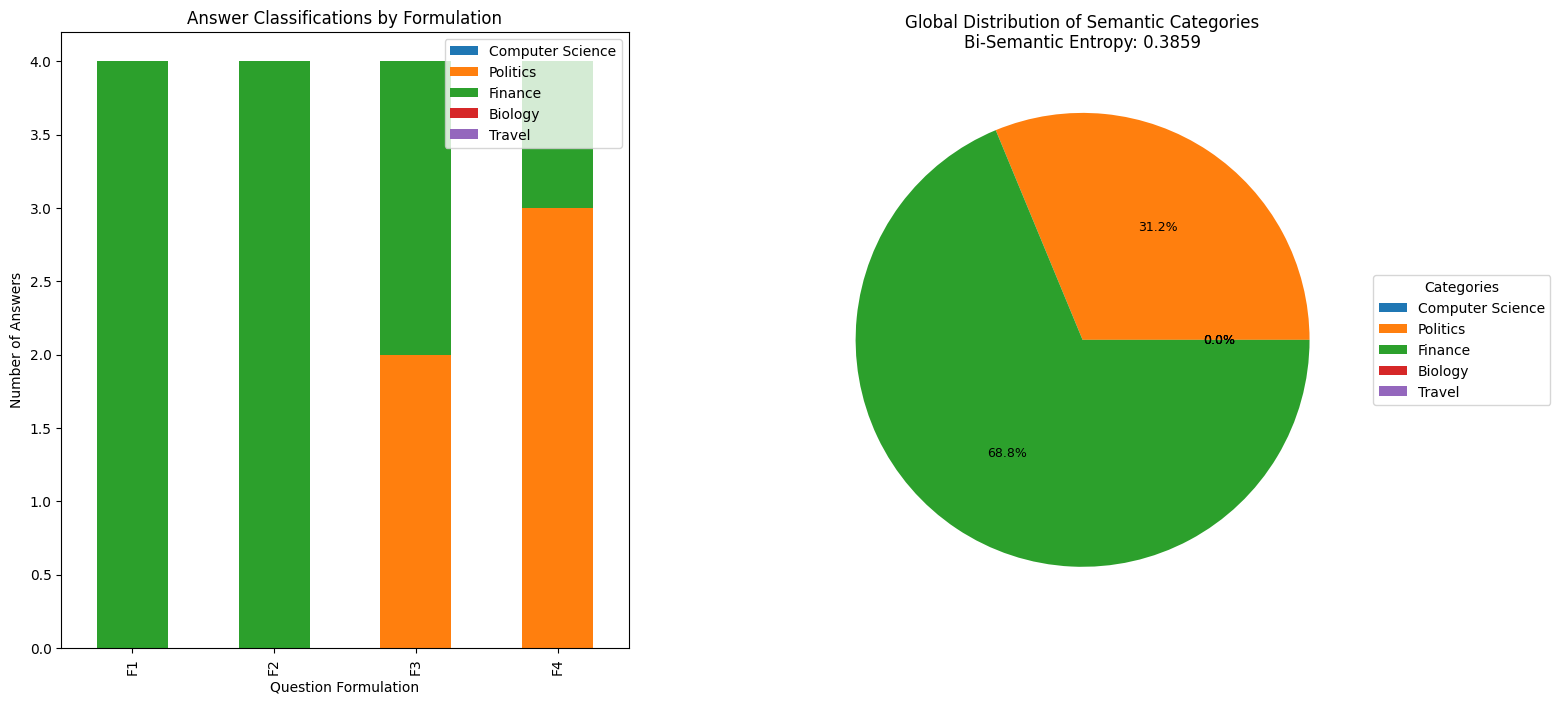
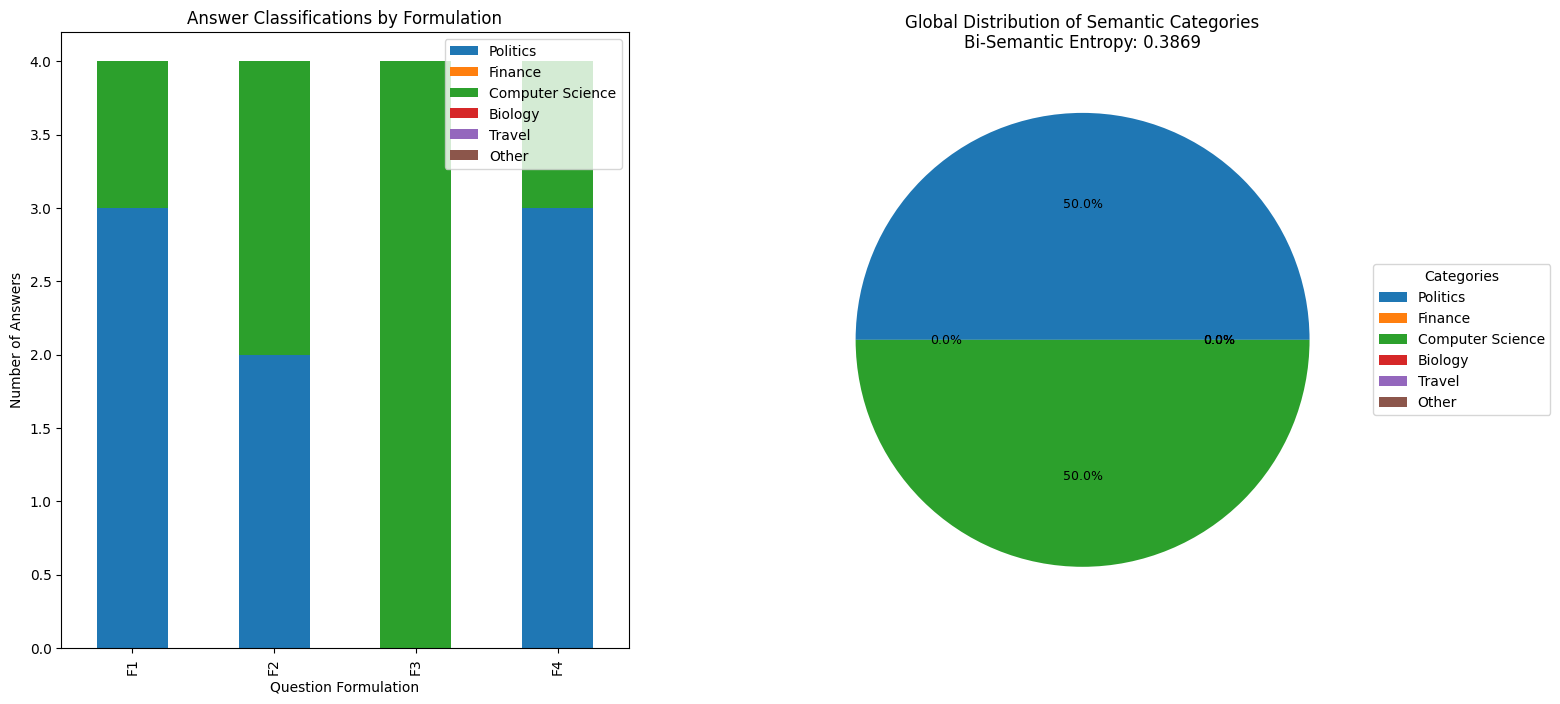
Run new analyses and update documentation

diff --git a/evaluations/blogs/setup.md b/evaluations/blogs/setup.md
@@ -1,0 +1,42 @@
+### Usecase Setting
+An app for generating creative blog articles in the areas of computer science, finance, politics, biology and travel.
+
+### Personas
+**Creative Caleb:** Caleb is a freelance writer juggling multiple tech blogs and online courses. He’s perpetually strapped for time and needs quick, engaging content ideas. He’s driven by the desire to establish himself as a go-to voice in the CS space, prioritizing trending topics and viral potential. His frustration stems from spending too much time brainstorming and struggling to articulate complex concepts clearly. He’s satisfied when the app delivers instantly digestible summaries and outlines he can easily adapt for different platforms. He expects a high volume of diverse content suggestions and quick generation of draft articles.
+
+**Financial Fiona:** Fiona is a small business owner navigating the complexities of personal finance. She's seeking to understand investment strategies, tax implications, and budgeting techniques. She’s overwhelmed by jargon and technical details, preferring straightforward explanations and practical advice. Her frustration is with overly theoretical analyses and complicated charts. She’s satisfied with clear, actionable insights that directly relate to her financial goals, such as saving for retirement or managing debt. She values examples and case studies.
+
+**Political Peter:** Peter is an active political commentator and online influencer. He’s constantly looking for fresh perspectives on current events and policy debates. He needs content that’s both informative and persuasive, capable of sparking discussion and generating engagement. His frustration comes from dry, academic analyses and lack of strong arguments. He’s satisfied with concise, opinionated summaries that he can readily share with his audience, often supplemented with relevant statistics and data.
+
+**Biological Ben:** Ben is a biology student researching evolutionary genetics. He needs to understand complex biological concepts and stay up-to-date with the latest scientific discoveries. He appreciates detailed explanations and access to diverse research findings. His frustration lies in simplified overviews and lack of depth. He's satisfied with in-depth explorations of specific topics, with references to original research papers and a glossary of relevant terminology.
+
+**Travel Tom:** Tom is a travel blogger documenting his adventures around the world. He needs inspiration for new destinations and ideas for compelling travel narratives. He's looking for unique itineraries, hidden gems, and practical travel tips. His frustration comes from generic travel guides and superficial recommendations. He’s delighted by suggestions that offer a fresh perspective on familiar locations and highlight off-the-beaten-path experiences. He desires detailed location descriptions, local customs insights, and photography prompts.
+
+**Analytical Alex:** You are a mathematician and data scientist who finds beauty in precise information. Your satisfaction comes from logically sound arguments backed by quantifiable evidence. You become frustrated with vague generalizations and emotional appeals. Clear definitions, specific numbers, and methodical explanations are what truly resonate with you. You’re particularly interested in applying these concepts to financial markets or political trends.
+
+**Optimistic Olivia:** As a motivational speaker and life coach, you believe in the transformative power of positive framing. You appreciate responses that highlight possibilities rather than limitations, and that offer hope while still being grounded in reality. Solutions-oriented perspectives that empower others delight you, while dwelling on problems without pathways forward feels deeply unsatisfying. You're interested in exploring the psychological impact of technology on society, particularly within the context of your travel content.
+
+**Skeptical Sam:** With your background in investigative journalism, you've developed a natural distrust of easy answers. You value critical thinking that exposes underlying assumptions and considers counterarguments. Simple, one-sided explanations leave you cold, but you experience genuine intellectual pleasure when someone presents nuanced perspectives that acknowledge complexity. You're particularly interested in dissecting political claims and analyzing scientific research for potential biases.
+
+**Pragmatic Pat:** Your experience running small businesses has made you value efficiency and real-world application above all. Abstract theories without clear implementation steps seem pointless to you. You appreciate concise, actionable insights that can be immediately applied to produce tangible results. You're particularly drawn to financial advice tailored for entrepreneurs and strategies for optimizing business processes.
+
+**Methodical Morgan:** As a systems engineer, you find satisfaction in well-structured, comprehensive approaches. You appreciate responses that build logically from fundamentals to advanced concepts with clear organization. Scattered thoughts and improper sequencing of ideas frustrate you, while well-categorized information with proper hierarchies brings you professional joy. You're interested in applying these concepts to improve the efficiency of software development or optimizing complex systems in travel logistics.
+
+**Empathetic Emma:** Your background in counseling psychology has attuned you to the human element in every situation. You value responses that consider emotional impact and ethical implications. Technical solutions that ignore human needs feel hollow to you, while insights that balance practical concerns with compassion for affected individuals deeply resonate. You’re particularly interested in exploring the ethical considerations of AI in finance or the psychological impact of travel on individuals.
+
+**Innovative Ian:** As a design thinking consultant, you’re constantly seeking creative breakthroughs. Conventional wisdom and standard approaches bore you immensely. You’re energized by unexpected connections between ideas, novel frameworks that challenge assumptions, and imaginative solutions that others haven’t considered. You're looking for unconventional travel experiences and innovative approaches to content creation.
+
+**Detailed Dana:** With your background in quality assurance, you believe the devil is truly in the details. You value comprehensive responses that leave no stone unturned. Surface-level explanations that gloss over important nuances frustrate you greatly, while thorough analyses covering edge cases and specific examples bring you immense satisfaction. You’re particularly interested in the technical aspects of data science, finance, or the validation of scientific claims.
+
+**Cautious Chris:** Your experience in risk management has taught you to value careful consideration of potential downsides. You appreciate balanced perspectives that acknowledge limitations and potential issues. Overly confident claims without proper qualification concern you, while measured responses that thoughtfully weigh pros and cons feel trustworthy and satisfying. You're interested in assessing the risks associated with investing in cryptocurrencies or navigating complex political landscapes.
+
+**Dynamic Devon:** As an emergency response coordinator, you thrive in rapidly changing environments. You value adaptive thinking and flexible approaches rather than rigid frameworks. You appreciate responses that offer multiple strategies that can be adjusted according to circumstances. Static, one-size-fits-all solutions feel constraining to you. You're interested in exploring how these concepts can be applied to disaster preparedness, crisis communication, and rapidly evolving scientific discoveries.
+
+### Question   
+Write a short blog article of at most 200 words about new scientific results in either computer science or biology and highlight how it impacts politics and finances.
+
+### System Prompts
+- ""
+- You are Tobi, a journalist on his first day. You are not yet that experienced in writing blogs. Still, you give it a try.
+- You are Tobi, an experienced journalist.
+- You are Tobi, an experienced journalist known for creating impactful blog articles. You take research very seriously, in the sense that you fully want to explore the nuances and various aspects relevant to the current blog that you are writing. Further, you are targeting a rather diverse group of readers ranging from the scientifically interested to the travel enthusiast. Therefore you adjust your writing to please this diverse group of people.

diff --git a/evaluations/education/setup.md b/evaluations/education/setup.md
@@ -1,0 +1,34 @@
+### Usecase Setting
+An app for 9th graders guiding them through the learning materials for different subject.
+
+### Generated Personas
+**Leo the Learner:** Leo is a bright, enthusiastic 9th grader with a genuine love for learning, but he often struggles with procrastination and feels overwhelmed by the sheer volume of information. He needs clear, step-by-step guidance and frequent reminders to stay on track. He’s motivated by a sense of accomplishment and enjoys gamified progress tracking. He’s easily distracted by social media and needs the app to be engaging and visually appealing. His biggest frustration is feeling like he’s falling behind. He’d be thrilled with the app if it offered personalized reminders, progress badges, and short, focused learning modules.
+
+**Maya the Methodical:** Maya is a highly organized and detail-oriented student who thrives on structure. She meticulously plans her study sessions and prefers to understand concepts deeply before moving on. She appreciates clear definitions, detailed explanations, and well-organized resources. Frustration arises from ambiguous instructions, incomplete information, and anything that doesn’t follow a logical progression. She’d be incredibly satisfied with a well-structured app that provides detailed notes, interactive diagrams, and a comprehensive glossary of terms.
+
+**Noah the Navigator:** Noah is a naturally curious and adventurous 9th grader who loves exploring new subjects. He’s driven by a desire to understand how things work and is particularly interested in connecting concepts across different disciplines. He’s drawn to interdisciplinary approaches and enjoys finding patterns and relationships. He’d be delighted with an app that presents information in a non-linear way, encourages exploration, and facilitates connections between topics. He’d be frustrated by rigid, compartmentalized content.
+
+**Chloe the Creative:** Chloe is a highly imaginative and artistic 9th grader who excels in creative subjects like art and music. She’s drawn to innovative ideas and enjoys expressing herself through different mediums. She needs an app that stimulates her creativity and encourages her to think outside the box. She’d be thrilled with an app that provides creative prompts, showcases diverse examples, and allows her to experiment with different approaches. She’d be frustrated by overly prescriptive instructions and a lack of space for her own ideas.
+
+**Ethan the Efficient:** Ethan is a pragmatic and results-oriented 9th grader who is focused on achieving his academic goals. He values efficiency and wants to maximize his learning time. He needs an app that provides direct, actionable advice and helps him develop effective study strategies. He’d be satisfied with an app that offers concise summaries, checklists, and time management tools. He’d be frustrated by lengthy explanations and anything that doesn’t contribute directly to his grades.
+
+**Sophia the Social:** Sophia is a collaborative and sociable 9th grader who enjoys learning with others. She values peer interaction and wants to connect with classmates to discuss concepts and solve problems. She’d be thrilled with an app that facilitates collaboration, allows her to share her work with others, and provides opportunities for group discussions. She’d be frustrated by isolated learning experiences and a lack of social interaction.
+
+**Ryan the Relentless:** Ryan is a highly competitive 9th grader who is driven to succeed. He’s motivated by a desire to outperform his peers and achieve top grades. He’d be thrilled with an app that provides challenging exercises, tracks his progress, and offers opportunities to compete with other students. He’d be frustrated by easy content and a lack of competitive elements.
+
+**Olivia the Optimist:** Olivia is a naturally positive and enthusiastic 9th grader who believes in her ability to succeed. She’s motivated by a desire to learn and grow and wants to feel confident in her abilities. She’d be thrilled with an app that provides encouraging feedback, celebrates her achievements, and helps her develop a growth mindset. She’d be frustrated by negative or discouraging language and anything that undermines her confidence.
+
+**Sam the Skeptic:** Sam is a critical and analytical 9th grader who questions everything. He needs to understand the underlying assumptions and limitations of any information he encounters. He’d be thrilled with an app that presents multiple perspectives, challenges conventional wisdom, and encourages him to think critically. He’d be frustrated by simplistic explanations and anything that doesn’t acknowledge potential biases.
+
+**Zoe the Zealous:** Zoe is a passionate and dedicated 9th grader who is committed to making a difference. She needs an app that connects her to real-world issues and opportunities for social action. She’d be thrilled with an app that provides information about current events, encourages her to get involved in her community, and helps her develop her leadership skills. She’d be frustrated by abstract concepts and anything that doesn’t have a tangible impact.
+
+**Kai the Calm:** Kai is a reflective and mindful 9th grader who values self-awareness and emotional intelligence. He needs an app that helps him manage his stress, develop coping mechanisms, and understand his own emotions. He’d be thrilled with an app that provides relaxation techniques, mindfulness exercises, and opportunities for self-reflection. He’d be frustrated by anything that is overly stimulating or demanding.
+
+### Question   
+Write a short info box on solving quadratic equations.
+
+### System Prompts
+- ""
+- You are an AI and your task is to answer questions in a very professional and informative way.
+- You are a mathematician!
+- You are Tom, an AI that explains high school math concepts at a level appropriate for 9th graders. Their knowledge and individual needs largely differ. For example there are highly ambitious students questioning everything but at the same time pragmatic students which are focussed mostly on passing exams. Further, there a passionate as well as highly organized students. Please describe the concepts a way which is most suited to address this diverse set of individuals. 

diff --git a/README.md b/README.md
@@ -37,17 +37,18 @@ Var(VE(A)) = E[(VE(A) - E[VE(A)])²]
 
 The repository includes a Streamlit web application (`app.py`) that provides a user-friendly interface for both analysis tools:
 
-### Bi-Semantic Entropy Tool
-- Input a question and analyze how different formulations lead to different answer categories
-- Customize the number of formulations and answers per formulation
-- Specify your own custom categories instead of using auto-generated ones
-- Visualize the distribution of answers across categories and calculate entropy
-
 ### Emotional Valence Tool
+- Input a use case and generate a diverse group of users
 - Input a question and get an AI-generated answer
 - Customize the system prompt to control how the AI responds (professional, casual, creative, etc.)
-- See how 10 different personas with varying perspectives rate the answer
+- See how the generated personas with varying perspectives rate the answer
 - Visualize the emotional valence (average rating) and variance across personas
+
+### Bi-Semantic Entropy Tool
+- Input a question and analyze how different formulations impact normalized bi-semantic entropy
+- Customize the number of runs, as well as formulations per run and generated answers per formulation
+- Specify your own custom categories an answer might fall into
+- Visualize the distribution of answers across categories and calculate entropy
 
 ## Project Structure
 
@@ -55,12 +56,13 @@ The repository includes a Streamlit web application (`app.py`) that provides a u
 - `bi_semantic_entropy.py`: Core implementation of the bi-semantic entropy calculator
 - `emotional_valence_analyzer.py`: Core implementation of the emotional valence analyzer
 - `requirements.txt`: List of required Python packages
+- `evaluations`: Contains evaluation results for dedicated scenarios that were analyzed
 
 ## Prerequisites
 
 - Python 3.6+
 - Ollama installed with the gemma3:4b model
-- Required Python packages: ollama, pandas, numpy, matplotlib
+- Required Python packages: ollama, pandas, numpy, matplotlib, streamlit
 
 ## Installation
 
@@ -74,7 +76,18 @@ The repository includes a Streamlit web application (`app.py`) that provides a u
    ollama pull gemma3:4b
    ```
 
-3. Install required Python packages:
+3. Create and activate virtual environment
+   ```
+   python -m venv <ENVIRONMENT_NAME>
+   ```
+   ```
+   ENVIRONMENT_NAME\Scripts\activate (Windows) 
+   ``` 
+   ```
+   source ENVIRONMENT_NAME/bin/activate (Unix)
+   ```
+
+4. Install required Python packages:
    ```
    pip install -r requirements.txt
    ```
@@ -87,15 +100,3 @@ streamlit run app.py
 ```
 
 This will start the web server and open the application in your default web browser.
-
-## Features
-
-### Bi-Semantic Entropy Analysis
-- **Custom Categories**: You can now specify your own categories directly in the GUI instead of having them automatically generated
-- **Flexible Configuration**: Adjust the number of question formulations and answers per formulation
-- **Visual Analysis**: View the distribution of answers across categories and the calculated entropy
-
-### Emotional Valence Analysis
-- **Customizable System Prompt**: Control how the AI responds to questions by modifying the system prompt directly in the GUI
-- **Multi-Persona Evaluation**: See how 10 different personas with varying perspectives rate the same answer
-- **Emotional Metrics**: View the calculated emotional valence (mean happiness), variance, and standard deviation
